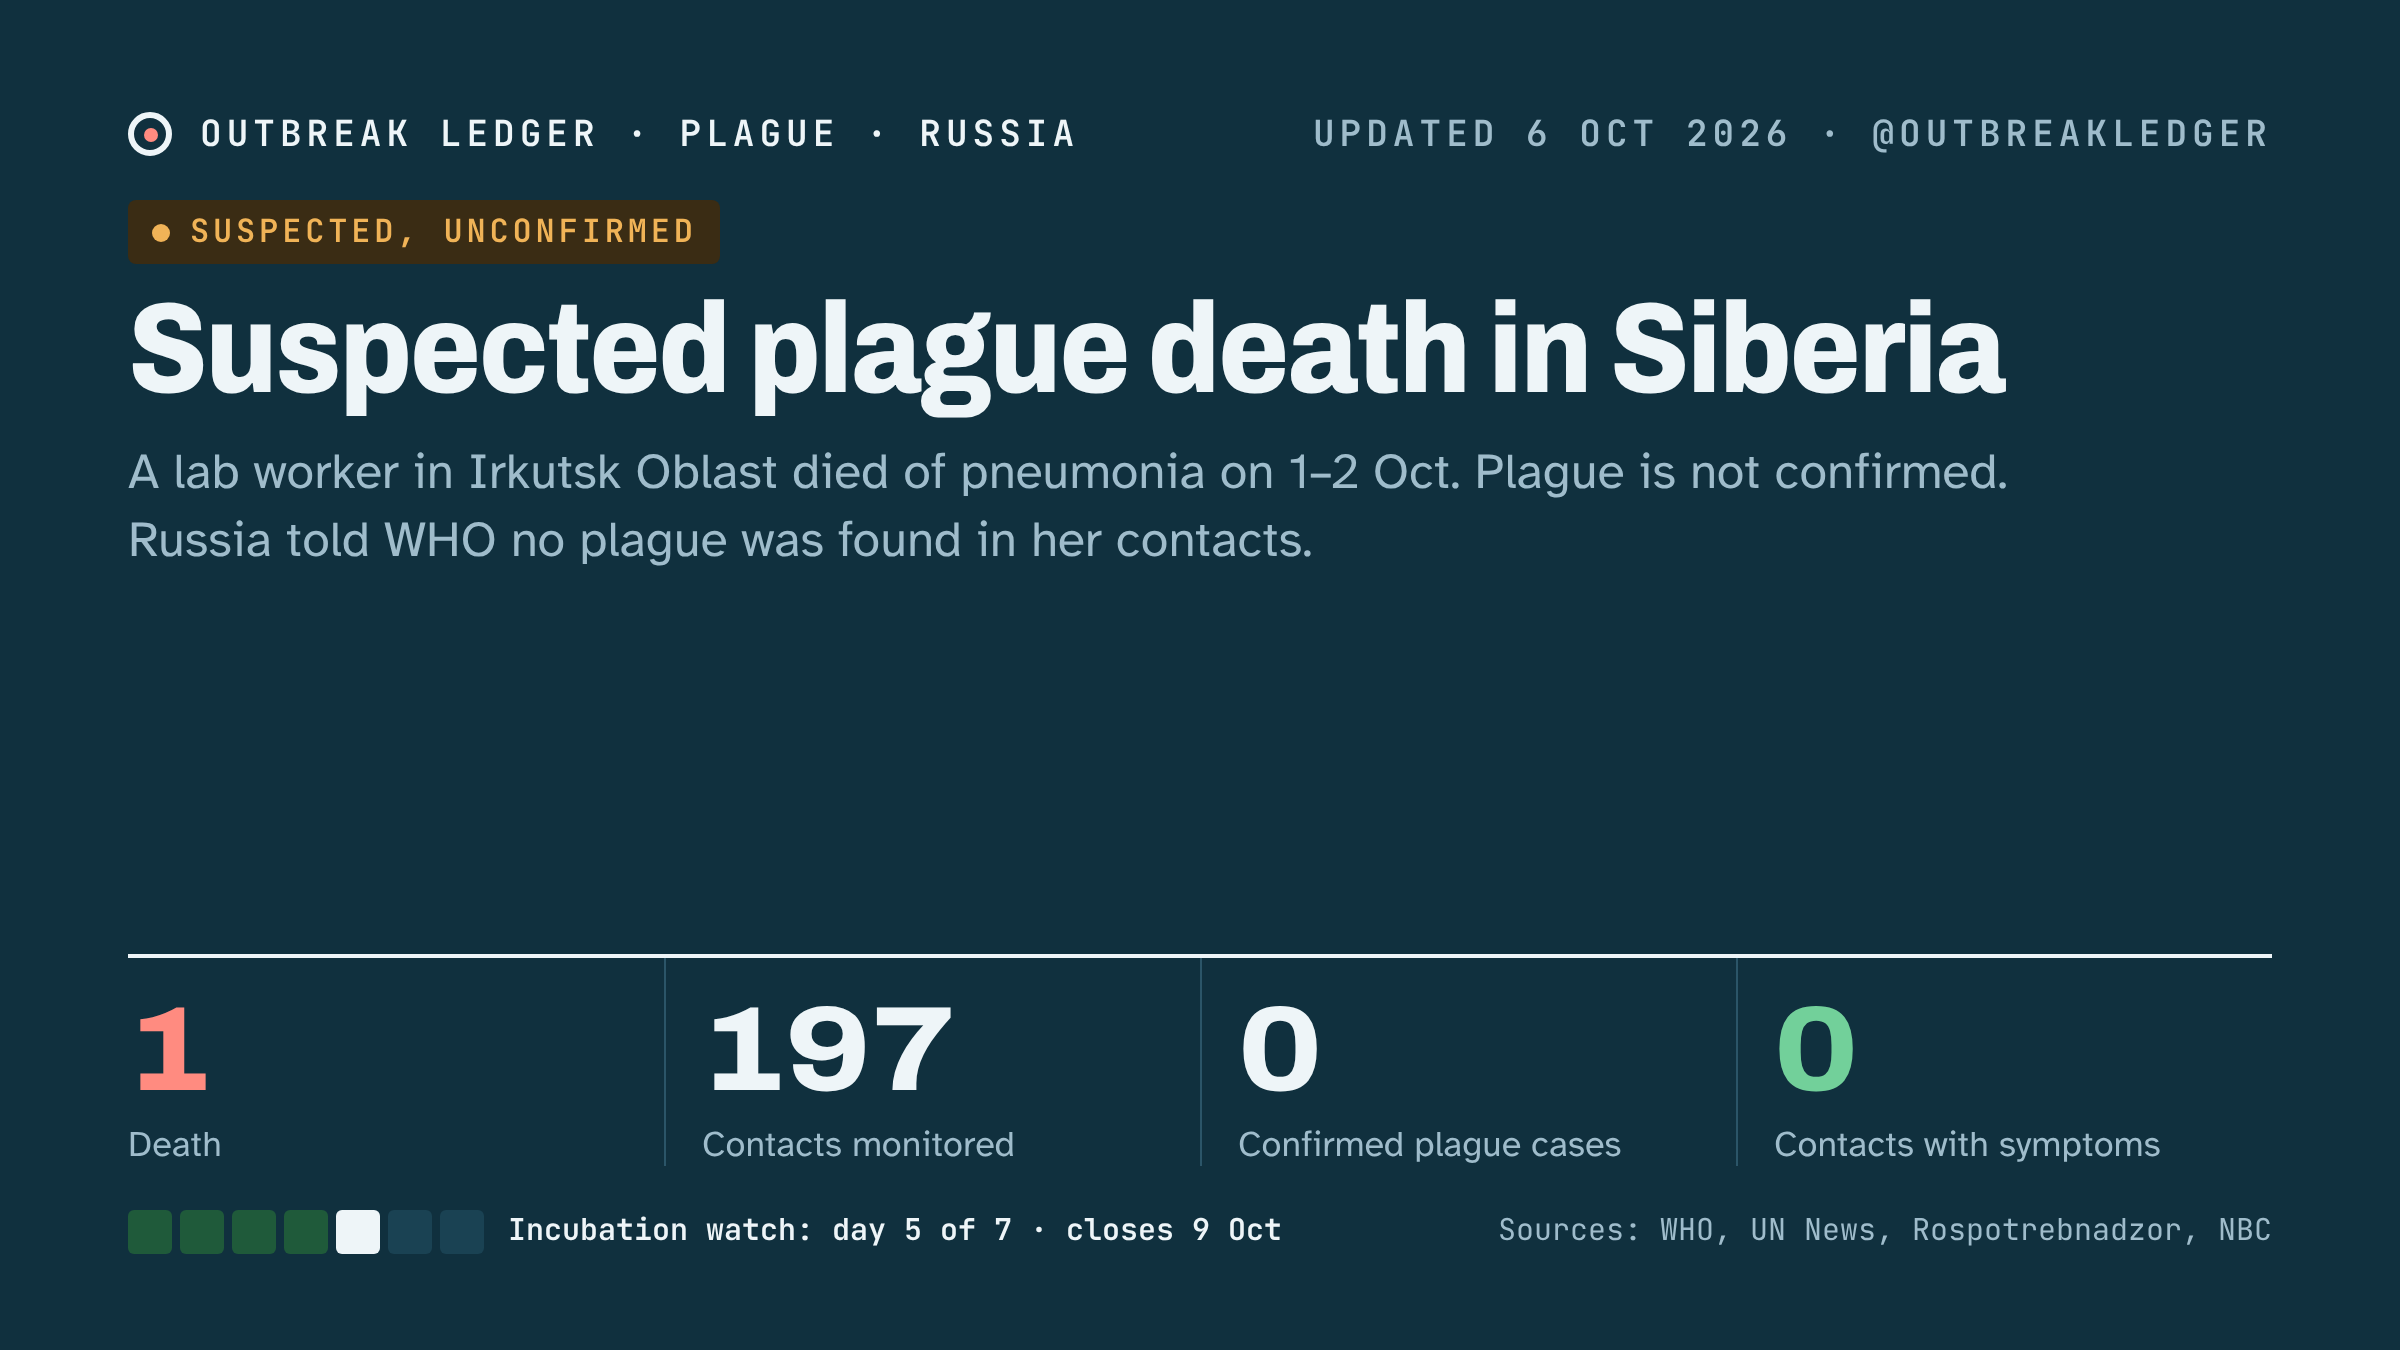
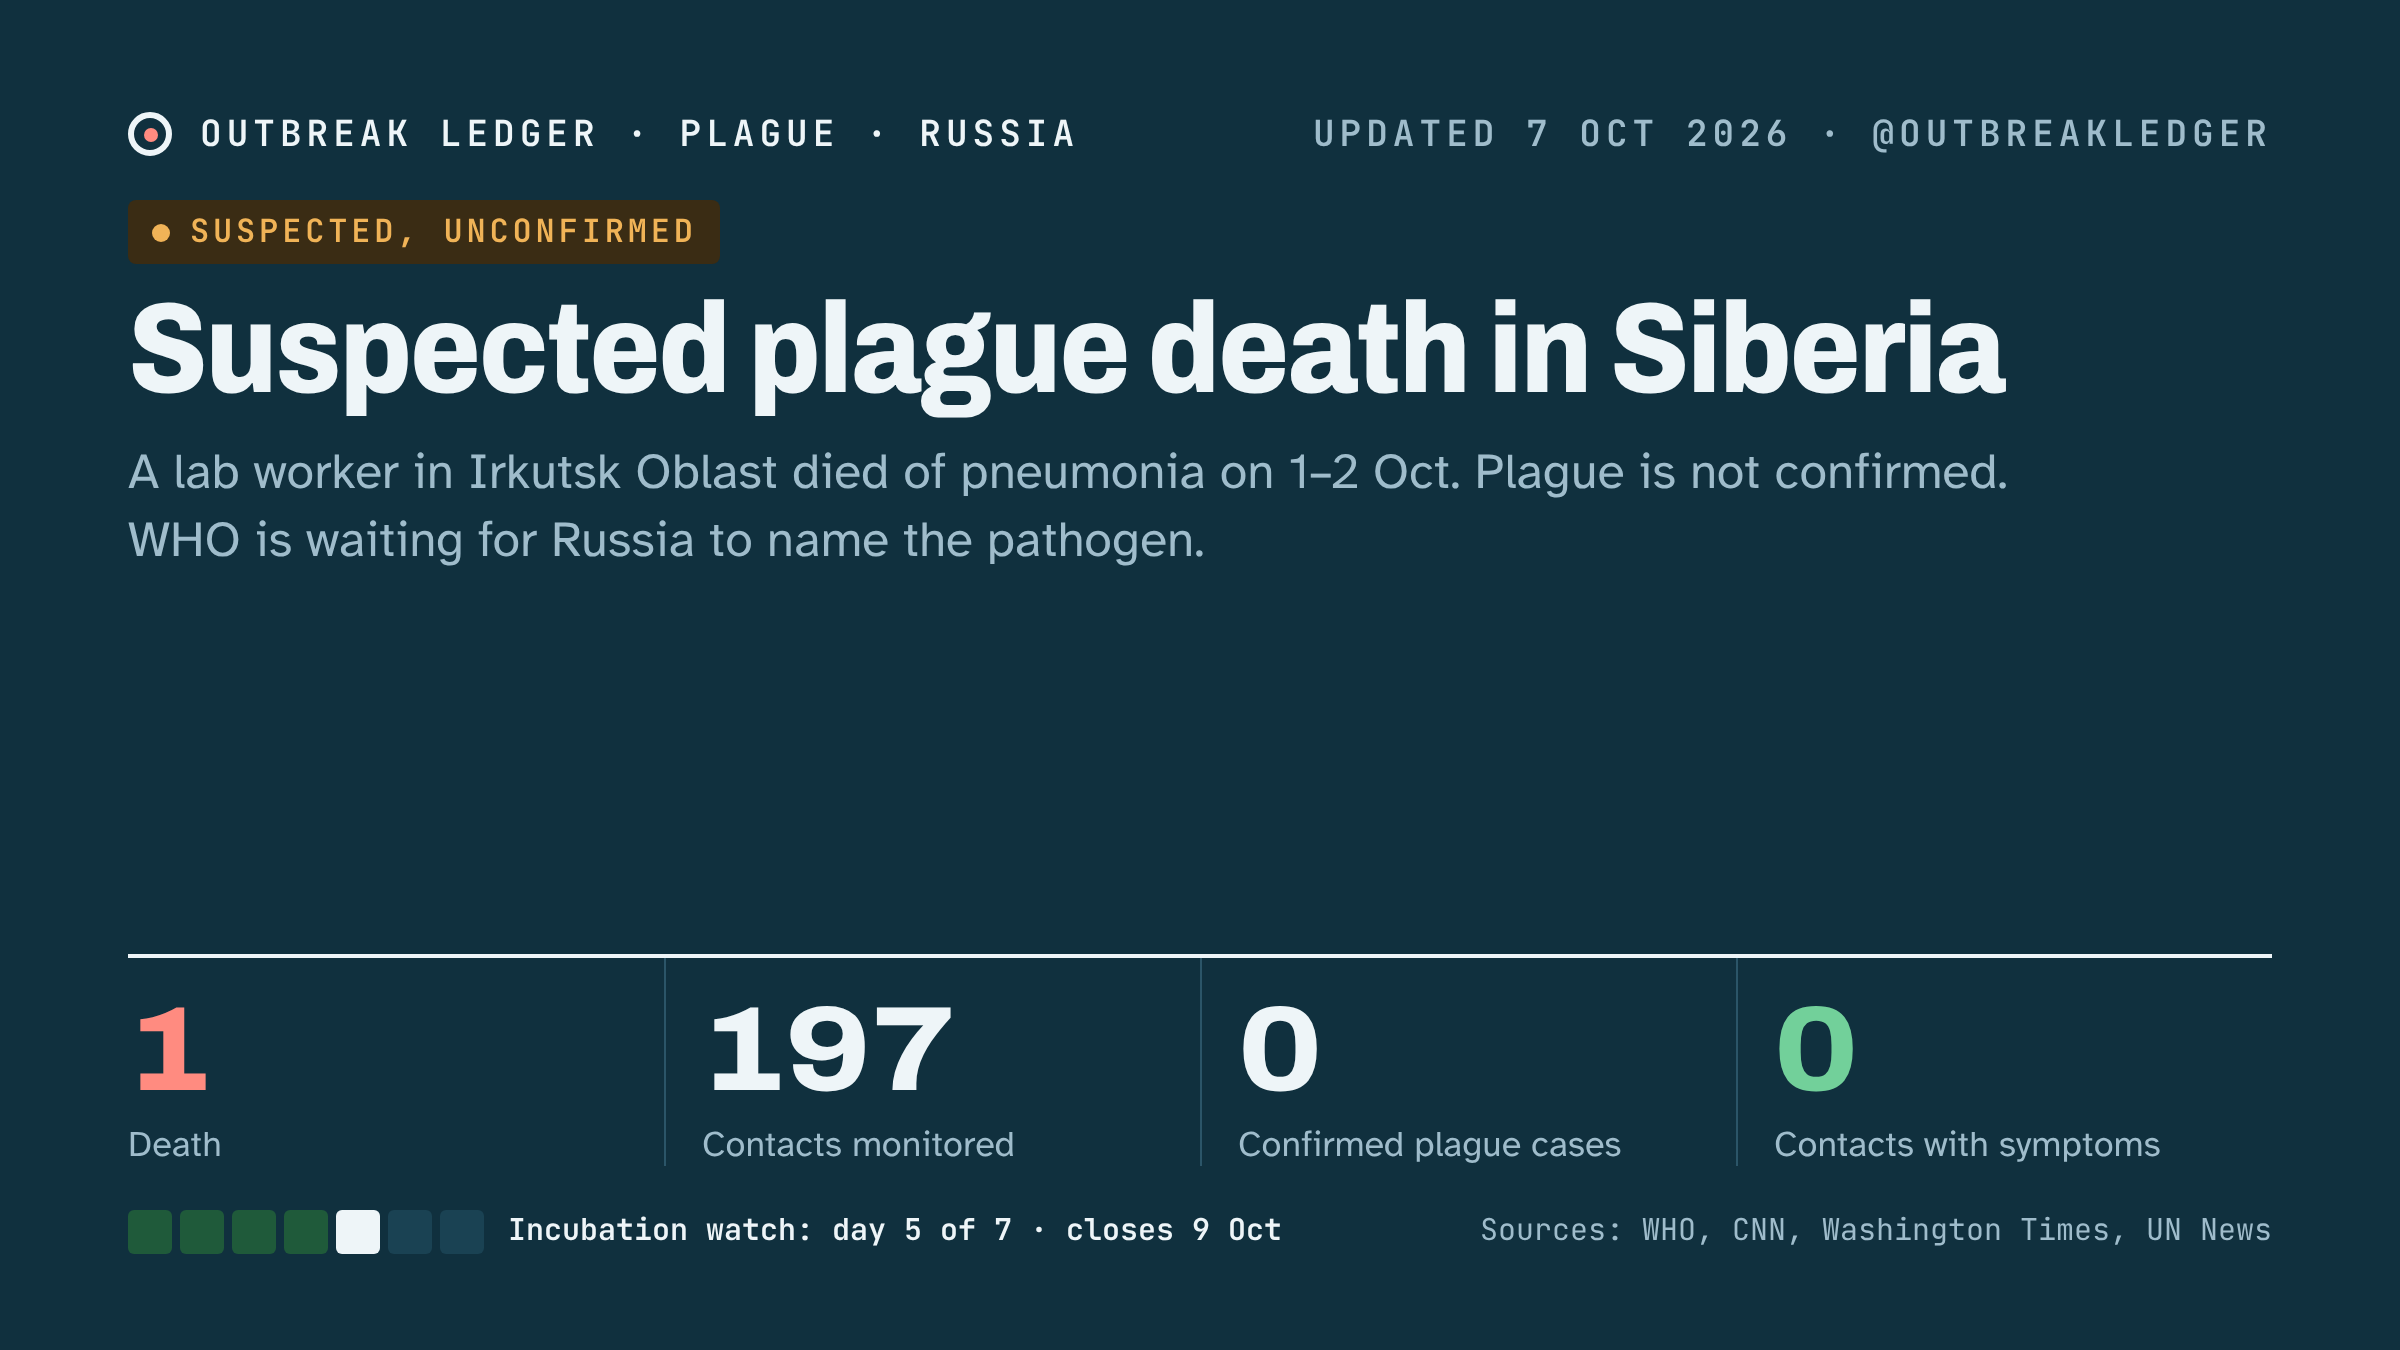
Plague: WHO says full risk assessment not yet possible, asks Russia for pathogen and contact details
Claude-Session: https://claude.ai/code/session_01DjK934MGj4uKY77RiACNyU

Changed region(s): [[0.0625, 0.3733, 0.5312, 0.4356], [0.75, 0.9022, 0.9375, 0.9333], [0.625, 0.9022, 0.7188, 0.9333]]

diff --git a/site/plague/share/latest-post.md b/site/plague/share/latest-post.md
@@ -1,6 +1,4 @@
-Russia has told WHO no plague was found in contacts of the Irkutsk lab worker who died on 2 Oct. WHO's first risk assessment: moderate to low for Irkutsk, low for Russia, very low for Europe.
-
-Incubation window closes 9 Oct. Live tracker:
+WHO says it can't yet complete a full risk assessment of the Irkutsk lab worker's death and is waiting for Russia to name the pathogen. Russia says no plague was found. Plague is unconfirmed. Initial WHO risk: low for Russia.
 https://nhlebe1.github.io/ai-scheduler-platform/plague/
 
-Sources: UN News (WHO spokesperson Christian Lindmeier, 6 Oct), NBC News.
+Sources: CNN and The Washington Times (7 Oct, WHO Director-General Tedros).
